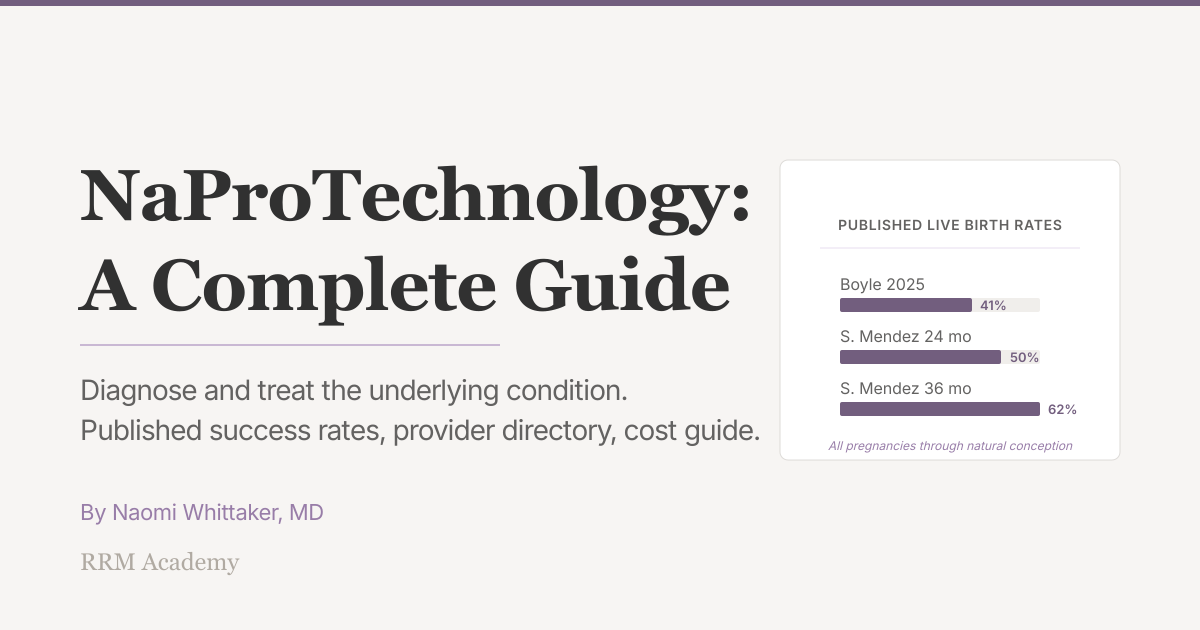
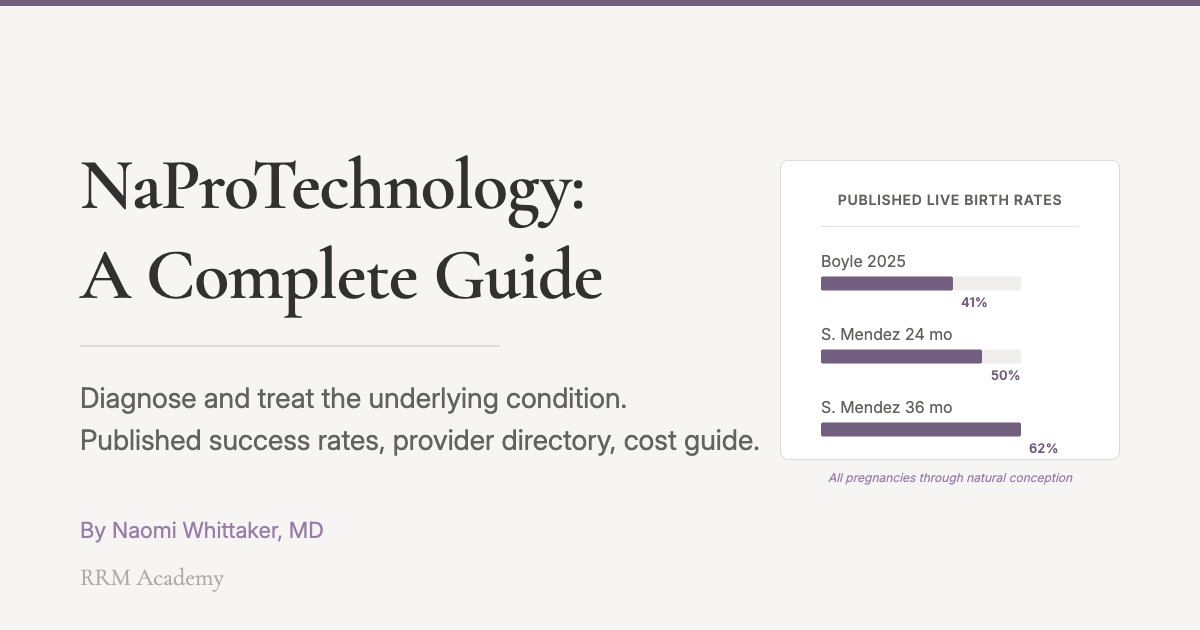
fix: OG image divider color, header nav polish, page layout tweaks
Change OG divider from purple to light grey. Update header animations,
commentary/courses/donate/faqs/library page refinements, add contact
CRM build script helpers.

diff --git a/docs/plans/backlog.md b/docs/plans/backlog.md
@@ -71,6 +71,10 @@ Full plan in `rrm-router/RRM Router PRD/PRD-Index.md` Post-Launch Roadmap.
 
 The `/admin/content/` page exists but has no API endpoint (`/api/admin/content`). Needs a backend that queries CF Analytics Engine (or CF Web Analytics API) for page views, sessions, referrers, content category breakdown, and avg duration. The frontend is already built and expects a specific response shape.
 
+### Zotero Two-Way Sync
+
+Full bidirectional sync between `/library/saved` and a user's Zotero library. Zotero uses OAuth 1.0a (not 2.0). Users connect once via "Connect Zotero" on saved articles page, then saves/unsaves push to their Zotero collection automatically. Requires: OAuth 1.0a handshake, Zotero API item creation/deletion, metadata mapping (article data to Zotero item schema), connection status UI, conflict handling. RIS export already exists as the non-API fallback.
+
 ### GA4 Source Attribution
 
 Full plan at `docs/plans/2026-03-09-ga4-source-attribution-plan.md` (6 file changes, test coverage defined).
